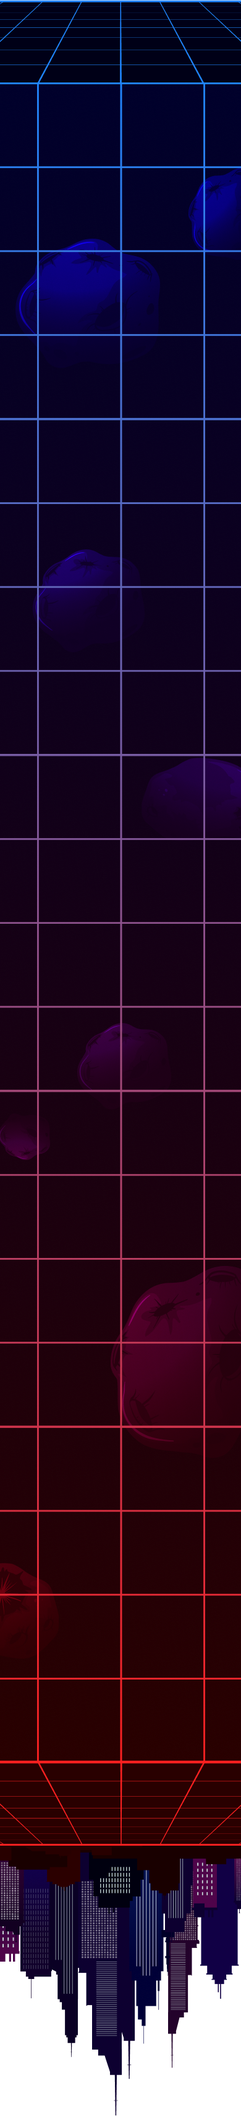
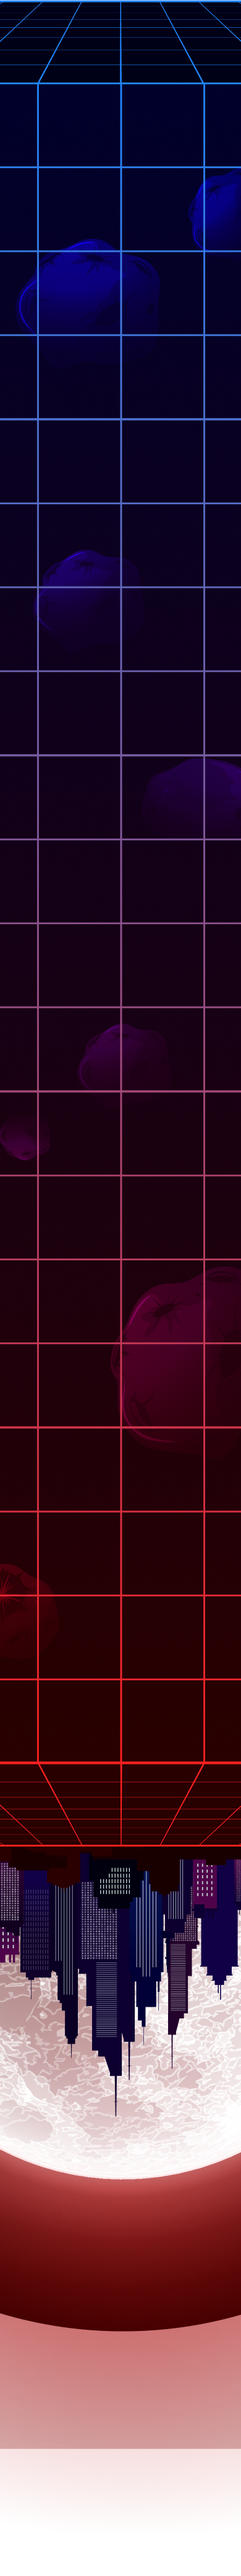
asset changes

diff --git a/src/Components/EventContainer/EventContainer.jsx b/src/Components/EventContainer/EventContainer.jsx
@@ -20,7 +20,9 @@ function EventContainer(props) {
         if (props.type == "kernel") setEvents(result.data[0].events);
         else setEvents(result[0].events);
         console.log(result);
-        document.getElementsByClassName("loaderDivEvents")[0].style.display = "none";
+        if(document.getElementsByClassName("loaderDivEvents")[0]){
+          document.getElementsByClassName("loaderDivEvents")[0].style.display = "none";
+        }
       })
       .catch((error) => {
         console.log("ERROR", error);

diff --git a/src/Components/MainHero/MainHero.jsx b/src/Components/MainHero/MainHero.jsx
@@ -15,7 +15,7 @@ import Moon from "../../assets/Moon1.png";
 import Div100vh from 'react-div-100vh';
 import ScrollScreen from "../ScrollScreen/ScrollScreen.jsx";
 import floor from "./MainHeroAssets/floorGrid.png";
-import bigFloor from "./MainHeroAssets/makeGrid.png";
+import bigFloor from "./MainHeroAssets/finalGrid.png";
 import bigFloorMobile from "./MainHeroAssets/bigFloorMobile.png";
 
 import floorGlow from "./MainHeroAssets/GroupFloorGlow.svg";
